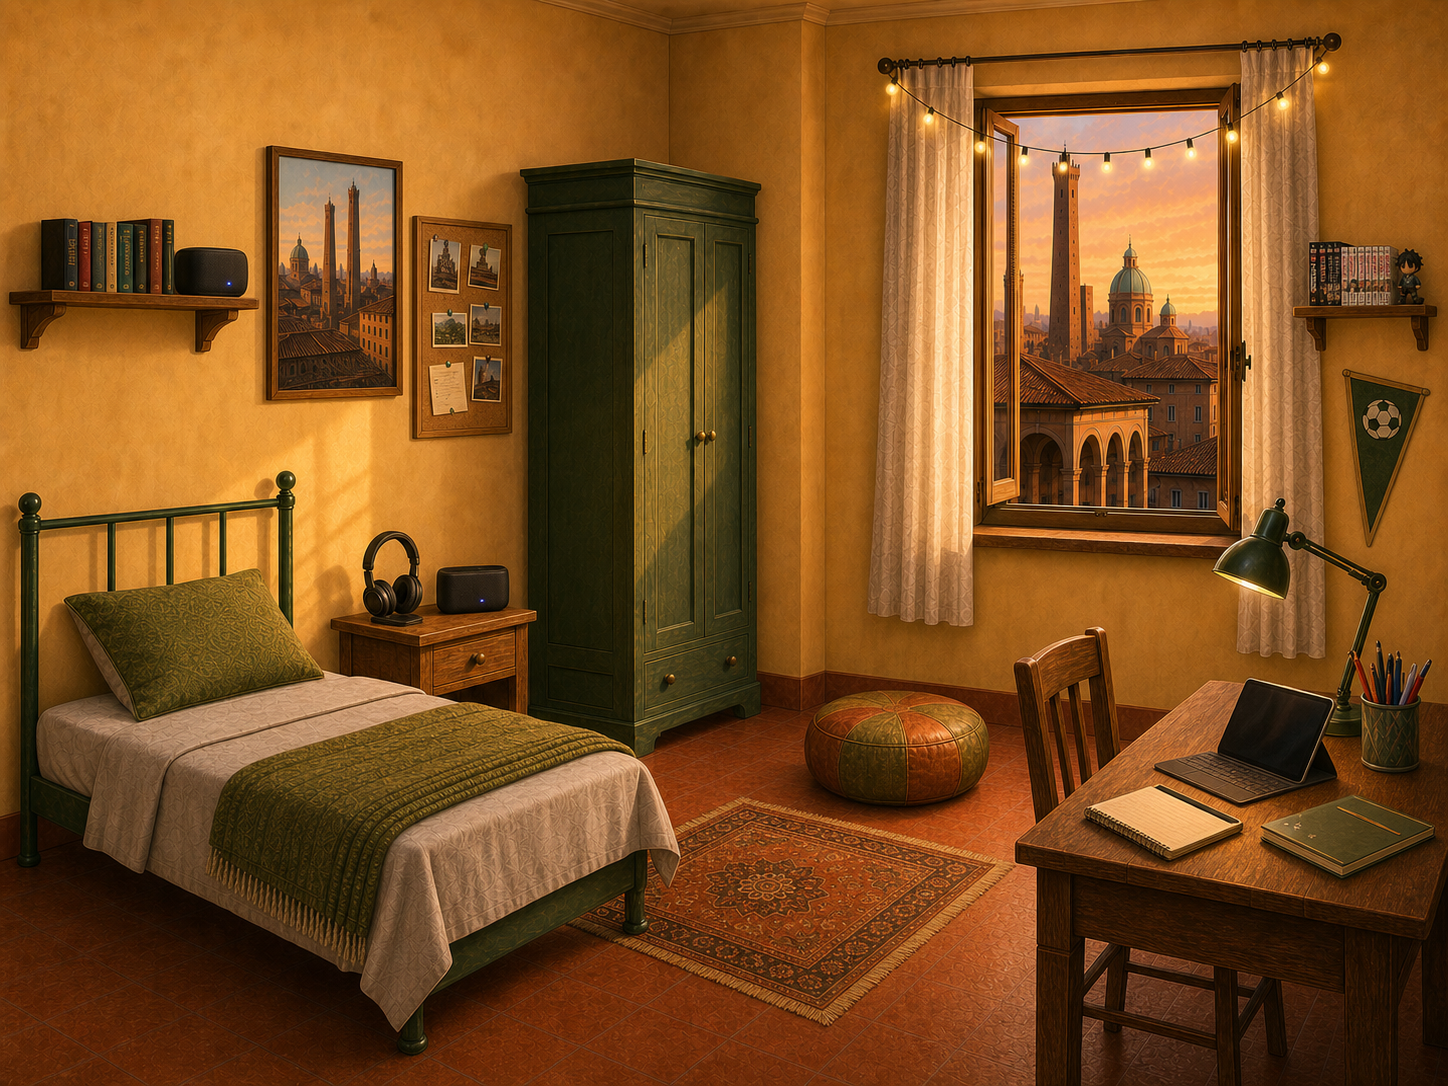
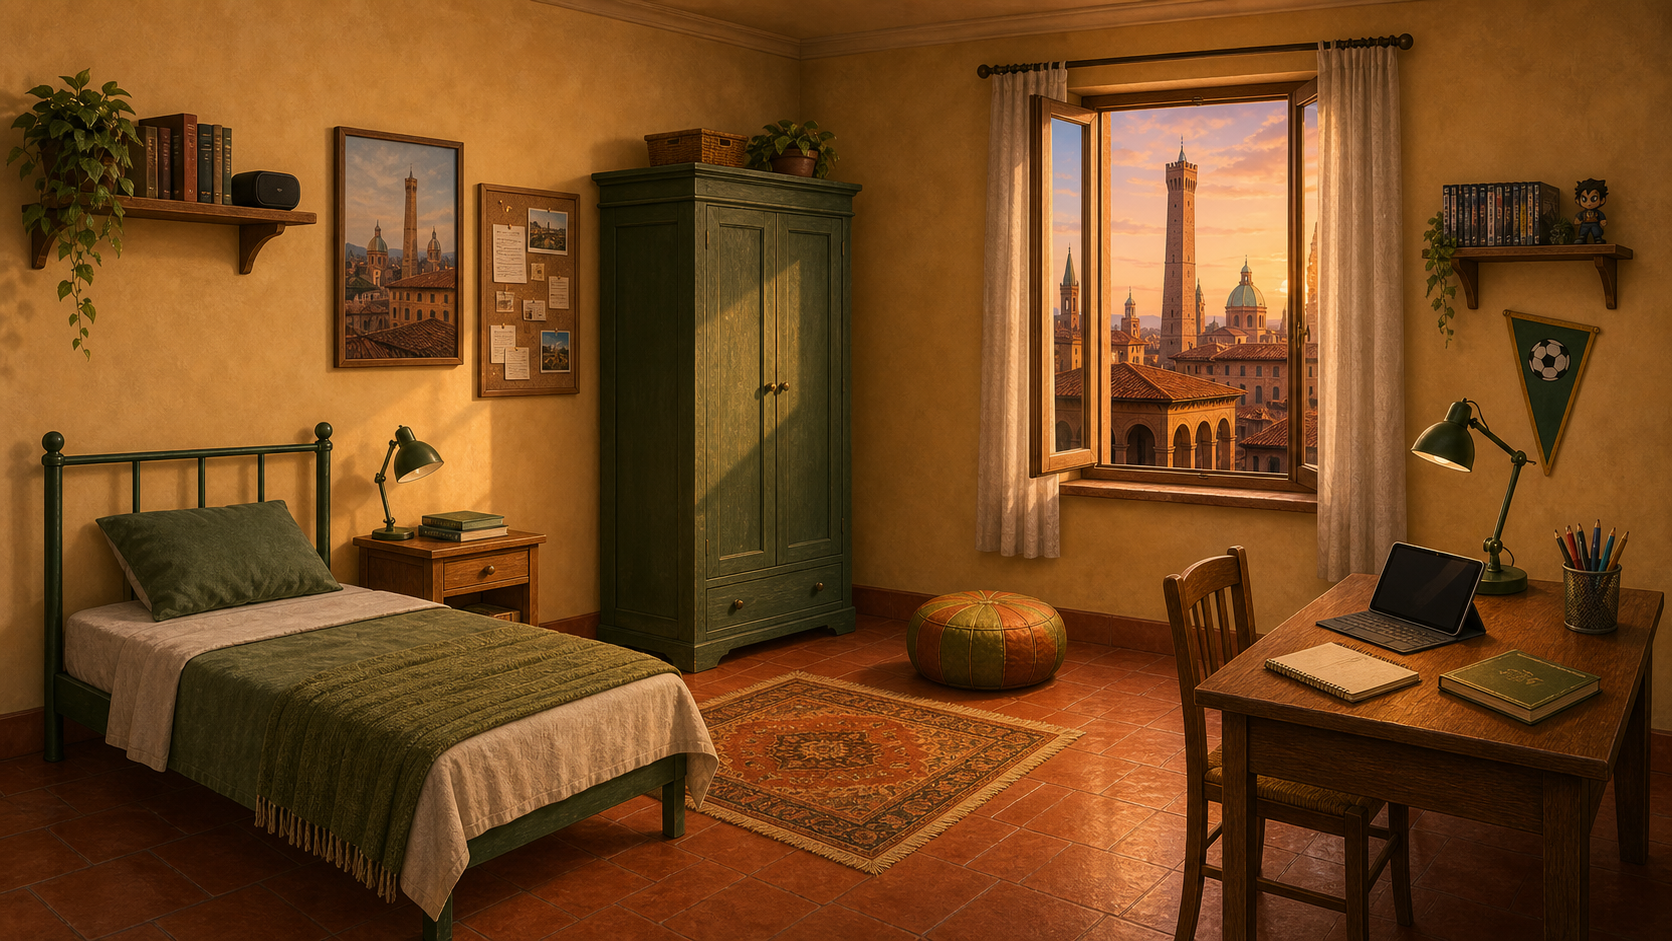
Refresh room and login artwork

diff --git a/lib/game/room-catalog.ts b/lib/game/room-catalog.ts
@@ -9,30 +9,30 @@ export type RoomItem = {
 };
 
 export const ROOM_CANVAS = {
-  width: 1448,
-  height: 1086,
-  aspectRatio: "4 / 3",
+  width: 1672,
+  height: 941,
+  aspectRatio: "16 / 9",
 } as const;
 
 export const ROOM_BACKGROUND_SRC = "/content-assets/room/final-room-teens.png";
 
 export const ROOM_ITEMS: RoomItem[] = [
-  { id: "window_view", label: "Vista su Bologna", cost: 60, x: 862, y: 35, width: 390, height: 492 },
-  { id: "bedspread", label: "Copriletto", cost: 40, x: 180, y: 665, width: 450, height: 250 },
-  { id: "city_poster", label: "Grande poster", cost: 40, x: 258, y: 135, width: 148, height: 278 },
-  { id: "rug", label: "Tappeto", cost: 40, x: 595, y: 770, width: 465, height: 280 },
-  { id: "pillow", label: "Cuscino", cost: 30, x: 45, y: 545, width: 330, height: 150 },
-  { id: "big_shelf", label: "Grande mensola", cost: 30, x: 0, y: 172, width: 260, height: 188 },
-  { id: "pinboard", label: "Bacheca", cost: 30, x: 405, y: 200, width: 124, height: 238 },
-  { id: "pouf", label: "Pouf", cost: 30, x: 780, y: 642, width: 245, height: 150 },
-  { id: "musicbox", label: "Cassa musicale", cost: 30, x: 440, y: 538, width: 145, height: 105 },
-  { id: "headphones", label: "Cuffie", cost: 30, x: 345, y: 520, width: 110, height: 120 },
-  { id: "pencil_cup", label: "Portapenne", cost: 15, x: 1358, y: 620, width: 90, height: 150 },
-  { id: "notebook", label: "Quaderno", cost: 15, x: 1085, y: 780, width: 215, height: 85 },
-  { id: "dvd_shelf", label: "Mensola con DVD", cost: 15, x: 1284, y: 218, width: 164, height: 122 },
-  { id: "desk_lamp", label: "Lampada", cost: 15, x: 1205, y: 485, width: 230, height: 155 },
-  { id: "ipad", label: "iPad", cost: 15, x: 1155, y: 640, width: 230, height: 155 },
-  { id: "football_pennant", label: "Bandierina calcio", cost: 15, x: 1335, y: 355, width: 113, height: 135 },
+  { id: "window_view", label: "Vista su Bologna", cost: 60, x: 990, y: 68, width: 375, height: 430 },
+  { id: "bedspread", label: "Copriletto", cost: 40, x: 92, y: 590, width: 620, height: 250 },
+  { id: "city_poster", label: "Grande poster", cost: 40, x: 325, y: 125, width: 145, height: 245 },
+  { id: "rug", label: "Tappeto", cost: 40, x: 650, y: 710, width: 465, height: 190 },
+  { id: "pillow", label: "Cuscino", cost: 30, x: 78, y: 502, width: 300, height: 125 },
+  { id: "big_shelf", label: "Grande mensola", cost: 30, x: 22, y: 86, width: 260, height: 190 },
+  { id: "pinboard", label: "Bacheca", cost: 30, x: 468, y: 162, width: 120, height: 235 },
+  { id: "pouf", label: "Pouf", cost: 30, x: 900, y: 602, width: 190, height: 135 },
+  { id: "musicbox", label: "Cassa musicale", cost: 30, x: 202, y: 142, width: 100, height: 72 },
+  { id: "headphones", label: "Lampada comodino", cost: 30, x: 345, y: 410, width: 128, height: 130 },
+  { id: "pencil_cup", label: "Portapenne", cost: 15, x: 1538, y: 520, width: 95, height: 130 },
+  { id: "notebook", label: "Quaderno", cost: 15, x: 1288, y: 670, width: 235, height: 92 },
+  { id: "dvd_shelf", label: "Mensola con DVD", cost: 15, x: 1410, y: 170, width: 235, height: 115 },
+  { id: "desk_lamp", label: "Lampada", cost: 15, x: 1390, y: 380, width: 190, height: 210 },
+  { id: "ipad", label: "iPad", cost: 15, x: 1310, y: 555, width: 210, height: 110 },
+  { id: "football_pennant", label: "Bandierina calcio", cost: 15, x: 1490, y: 300, width: 120, height: 165 },
 ];
 
 export const ROOM_ITEM_IDS = new Set(ROOM_ITEMS.map((item) => item.id));

diff --git a/components/game/screens/ShopView.tsx b/components/game/screens/ShopView.tsx
@@ -139,7 +139,7 @@ export function ShopView({ className, initialSlices = 0, onWalletChange }: ShopV
     >
       {error ? <p className="shrink-0 text-sm font-semibold text-destructive">{error}</p> : null}
 
-      <div className="relative grid min-h-0 flex-1 place-items-center overflow-hidden">
+      <div className="relative grid min-h-0 flex-1 place-items-center overflow-visible">
         <div
           className="relative h-full max-h-full max-w-full overflow-hidden rounded-xl bg-[#3b281d] shadow-[0_18px_48px_rgba(0,0,0,0.28)]"
           style={{ aspectRatio: ROOM_CANVAS.aspectRatio }}
@@ -172,9 +172,9 @@ export function ShopView({ className, initialSlices = 0, onWalletChange }: ShopV
                 key={item.id}
                 type="button"
                 className={cn(
-                  "absolute grid place-items-center overflow-hidden rounded-lg border-2 border-[#f6c76a]/75 bg-[#f3dfbf]/70 text-[#4b2211] shadow-[0_7px_18px_rgba(58,28,12,0.24),inset_0_1px_0_rgba(255,255,255,0.45)] transition hover:scale-[1.01] hover:bg-[#fff1d8]/82 focus-visible:outline focus-visible:outline-4 focus-visible:outline-[#ffe08b]",
+                  "absolute grid place-items-center overflow-hidden rounded-lg border-2 border-[#e8b45a] bg-[linear-gradient(135deg,#f7dca7_0%,#c8853d_52%,#8b4a20_100%)] text-[#4b2211] shadow-[0_7px_18px_rgba(58,28,12,0.28),inset_0_1px_0_rgba(255,255,255,0.55)] transition hover:scale-[1.01] hover:brightness-105 focus-visible:outline focus-visible:outline-4 focus-visible:outline-[#ffe08b]",
                   isBought && "pointer-events-none scale-95 opacity-0",
-                  !isBought && totalSlices < item.cost && "cursor-not-allowed border-[#d2b48a]/70 bg-[#d9c8aa]/72 opacity-85 grayscale",
+                  !isBought && totalSlices < item.cost && "cursor-not-allowed border-[#b6814a] bg-[linear-gradient(135deg,#d8b984_0%,#9c6b37_54%,#6b3b1b_100%)] grayscale",
                 )}
                 style={{
                   left: `${(item.x / ROOM_CANVAS.width) * 100}%`,
@@ -187,7 +187,7 @@ export function ShopView({ className, initialSlices = 0, onWalletChange }: ShopV
                 aria-label={`Compra ${item.label} per ${item.cost} spicchi di pizza`}
                 onClick={() => void onBuy(item.id)}
               >
-                <span className="grid max-w-[88%] place-items-center gap-0.5 rounded-md bg-[#5a2612]/82 px-2 py-1 text-center text-[10px] font-black leading-tight text-[#fff8df] shadow-sm sm:text-xs">
+                <span className="grid max-w-[88%] place-items-center gap-0.5 rounded-md bg-[#5a2612] px-2 py-1 text-center text-[10px] font-black leading-tight text-[#fff8df] shadow-sm sm:text-xs">
                   {isPending ? "Acquisto..." : "Da acquistare"}
                   <small className="text-[0.9em] text-[#ffd98a]">🍕 {item.cost}</small>
                 </span>

diff --git a/app/(game)/shop/page.tsx b/app/(game)/shop/page.tsx
@@ -21,8 +21,9 @@ export default function ShopPage() {
   ) : null;
 
   return (
-    <main className="box-border flex h-dvh flex-col gap-2 overflow-hidden px-4 pb-4 pt-14 sm:px-8 sm:pb-6 sm:pt-16">
+    <main className="box-border flex h-dvh flex-col gap-2 overflow-hidden px-4 pb-4 pt-4 sm:px-8 sm:pb-6 sm:pt-6">
       <GameShellHeader
+        title="Negozio"
         variant="hub"
         leading={
           <Button
@@ -37,7 +38,7 @@ export default function ShopPage() {
           </Button>
         }
         actions={headerRight}
-        className="!mt-0"
+        className="!mt-0 [&>div:last-child]:ml-auto"
       />
       <section className="min-h-0 flex-1 overflow-hidden">
         {error ? <p className="shrink-0 text-sm text-destructive">{error}</p> : null}
